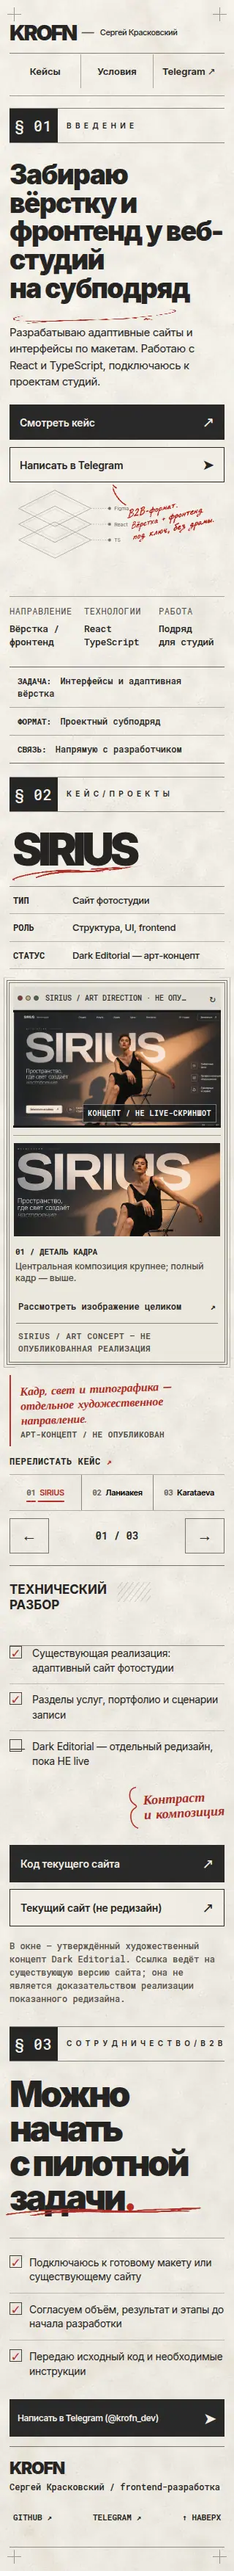
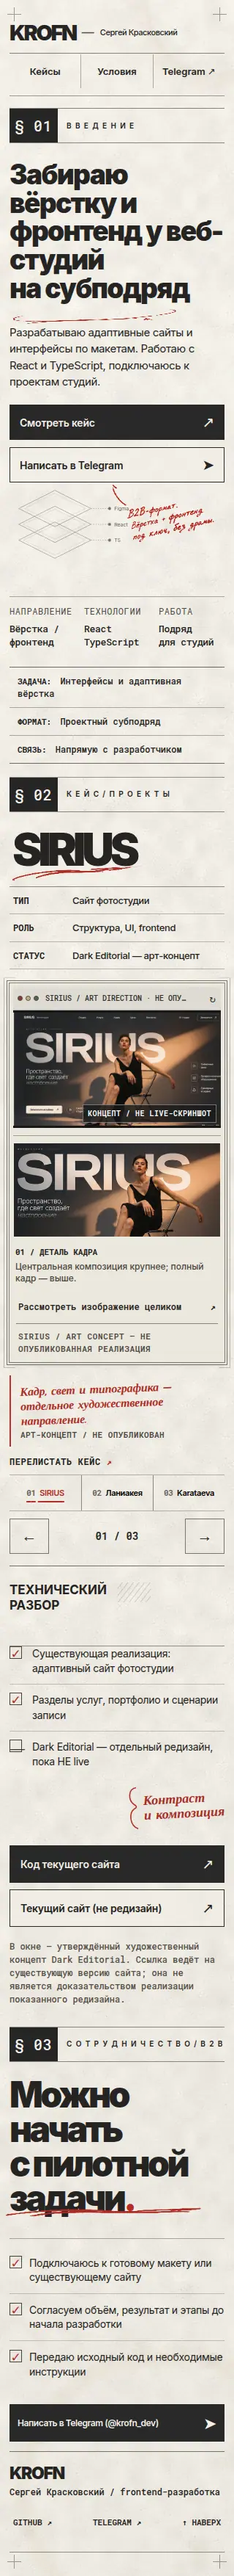
fix(manual): anchor handwritten CTA arrow to actual Telegram button

diff --git a/src/sites/manual/ManualCollaboration.tsx b/src/sites/manual/ManualCollaboration.tsx
@@ -5,7 +5,7 @@ export default function ManualCollaboration() {
 <div className="section-rail shell"><span className="rail-number">§ 03</span><span className="rail-heading">С О Т Р У Д Н И Ч Е С Т В О / B 2 B</span><span className="rail-end">КАК НАЧАТЬ РАБОТУ</span></div>
 <div className="collab-body shell">
 <div className="collab-main"><h2 id="collab-title">Можно начать<br />с пилотной<br />задачи<span>.</span></h2><img alt="" aria-hidden="true" className="annotation collab-underline" src="/media/manual/assets/footer-underline.png" /></div>
-<div className="collab-side"><div className="offer-lines"><div><span className="check">✓</span><span>Подключаюсь к готовому макету или существующему сайту</span></div><div><span className="check">✓</span><span>Согласуем объём, результат и этапы до начала разработки</span></div><div><span className="check">✓</span><span>Передаю исходный код и необходимые инструкции</span></div></div><a className="button button-dark final-button" href="https://t.me/krofn_dev" rel="noreferrer" target="_blank">Написать в Telegram (@krofn_dev) <span>➤</span></a><img alt="" aria-hidden="true" className="annotation footer-hand" src="/media/manual/assets/footer-note.png" /></div>
+<div className="collab-side"><div className="offer-lines"><div><span className="check">✓</span><span>Подключаюсь к готовому макету или существующему сайту</span></div><div><span className="check">✓</span><span>Согласуем объём, результат и этапы до начала разработки</span></div><div><span className="check">✓</span><span>Передаю исходный код и необходимые инструкции</span></div></div><div className="collab-cta"><a className="button button-dark final-button" href="https://t.me/krofn_dev" rel="noreferrer" target="_blank">Написать в Telegram (@krofn_dev) <span>➤</span></a><img alt="" aria-hidden="true" className="annotation footer-hand" src="/media/manual/assets/footer-note.png" /></div></div>
 </div>
 <footer className="site-footer shell"><div className="footer-left"><strong>KROFN</strong><span>Сергей Красковский / frontend-разработка</span></div><div className="footer-right"><a href="https://github.com/KROFN" rel="noreferrer" target="_blank">GITHUB ↗</a><a href="https://t.me/krofn_dev" rel="noreferrer" target="_blank">TELEGRAM ↗</a><a href="#top">↑ НАВЕРХ</a></div></footer>
 </section>

diff --git a/src/sites/manual/ManualSite.css b/src/sites/manual/ManualSite.css
@@ -236,3 +236,18 @@ body[data-route="manual"] a,body[data-route="manual"] button{cursor:pointer;}
 .manual-root .media-expand:focus-visible,.manual-root button:focus-visible,.manual-root a:focus-visible{outline:3px solid var(--red);outline-offset:3px;}
 .manual-root .page-case,.manual-root .arrow-nav button,.manual-root .main-nav a,.manual-root .footer-right a{touch-action:manipulation;}
 @media(max-width:790px){.manual-root .main-nav>a,.manual-root .arrow-nav button,.manual-root .page-case,.manual-root .footer-right a{min-height:46px;}}
+
+/* V3.1 QA hotfix: handwritten CTA arrow is anchored to the CTA instead of the whole column.
+   Keep the approved source artwork; the arrowhead must end INSIDE the clickable button. */
+.manual-root .collab-cta{position:relative;width:100%;max-width:560px;margin-top:23px;isolation:isolate}
+.manual-root .collab-side .collab-cta .button{width:100%;max-width:none;margin-top:0;position:relative;z-index:1}
+.manual-root .collab-cta .footer-hand{position:absolute;pointer-events:none;z-index:2;display:block;width:200px;right:-100px;top:-122px;opacity:1}
+@media(max-width:1170px){
+  .manual-root .collab-cta .footer-hand{width:145px;right:-46px;top:-82px}
+}
+@media(max-width:790px){
+  .manual-root .collab-cta .footer-hand{width:130px;right:-16px;top:-70px}
+}
+@media(max-width:520px){
+  .manual-root .collab-cta .footer-hand{display:none}
+}

diff --git a/docs/MANUAL_V31_IMPLEMENTATION_REVIEW.md b/docs/MANUAL_V31_IMPLEMENTATION_REVIEW.md
@@ -32,3 +32,9 @@ No new sections, visual experiments, metrics or alternative art direction were i
 
 ## Review assets
 `review-v31/KROFN_IMPL_{1440,390,320}_{SIRIUS,LANIAKEA,KARATAEVA}.webp` are **actual browser screenshots of this React implementation**, not the approved reference screenshots. They are review files and do not enter the Vite dist build.
+
+## CTA handwritten arrow correction (2026-11-11)
+- During independent review, the approved handwritten arrow was observed ending below the Telegram button at 1440px and outside the button on narrower desktop/tablet widths.
+- The existing original `footer-note.png` is unchanged. Its placement is now relative to a dedicated `.collab-cta` wrapper rather than `.collab-side`, with breakpoint-specific coordinates. `pointer-events: none` preserves the full click target.
+- Chromium screenshots after the patch: `review-v31/CTA_ARROW_1440.webp`, `review-v31/CTA_ARROW_768.webp`. The geometric browser audit `review-v31/CTA_ARROW_QA.json` checks that the visible arrow tip falls within the CTA at 600, 768, 1024, 1440px; hidden-note mobile layouts are also checked.
+- All 18 main responsive carousel states and existing route/build tests were revalidated. This is a local annotation correction, not a redesign.
